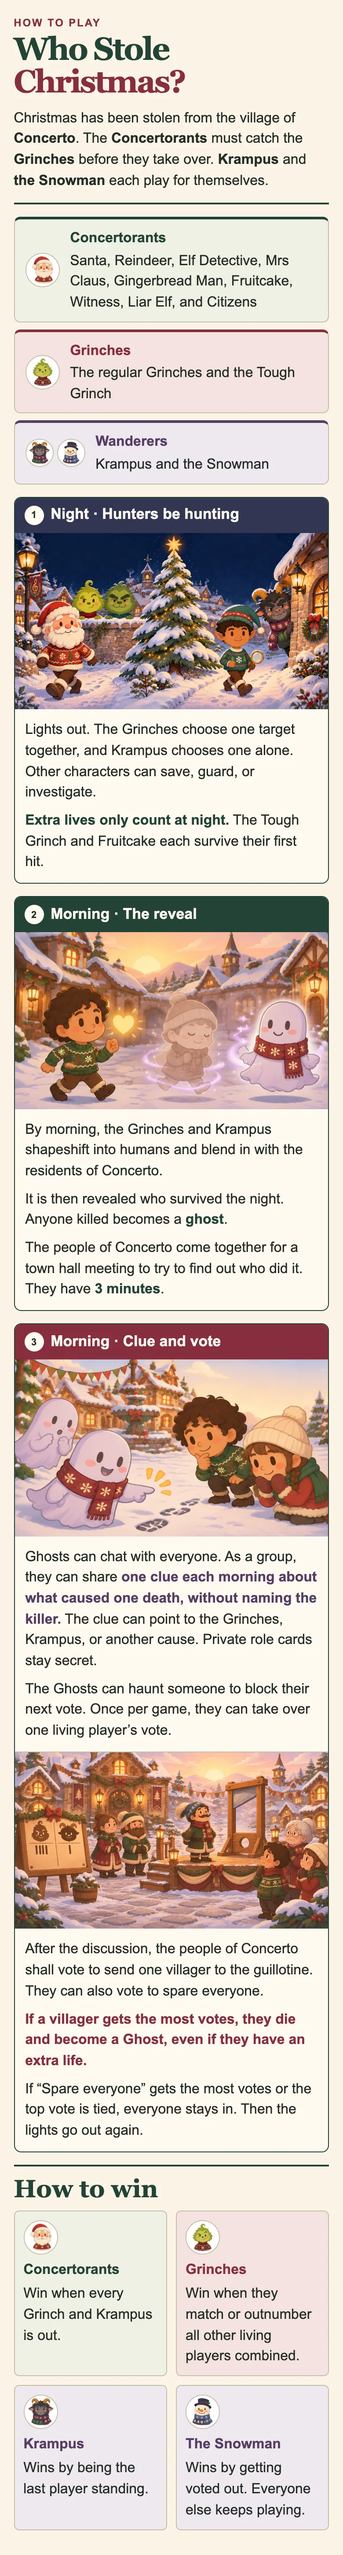
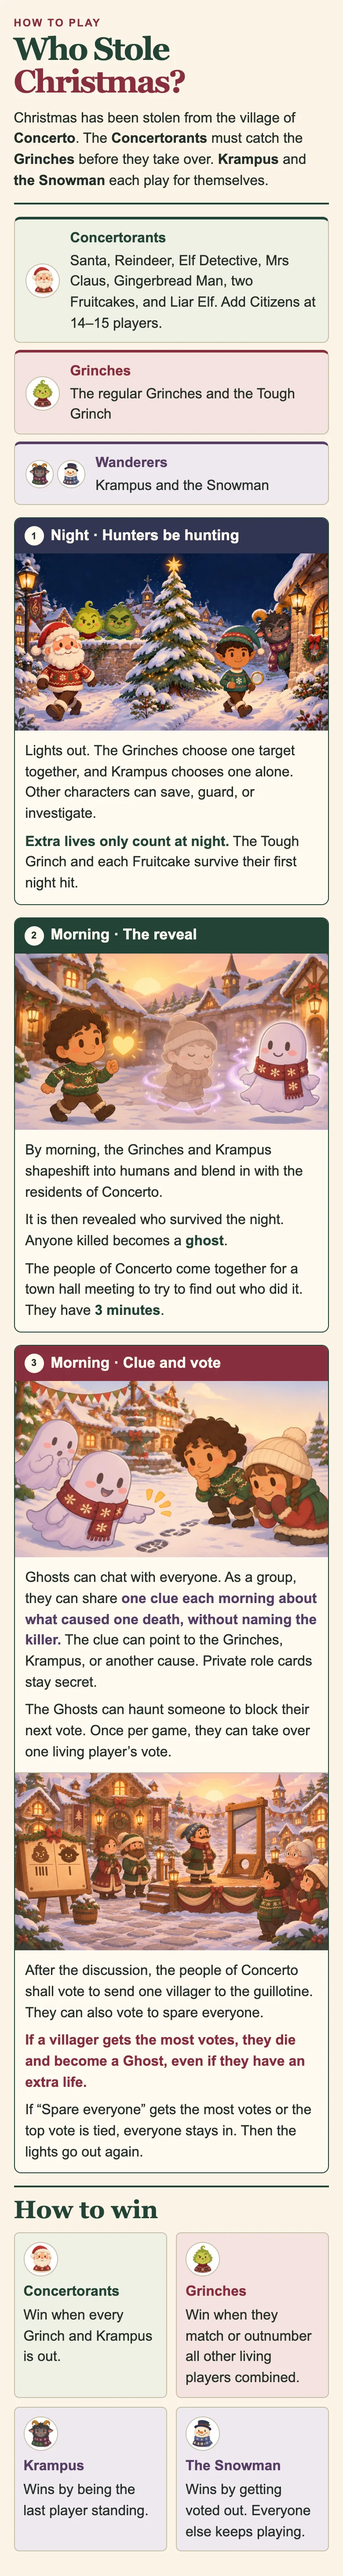
Deal two Fruitcakes and keep extra lives night-only

diff --git a/assets/js/game.js b/assets/js/game.js
@@ -109,7 +109,7 @@
   }
 
   const GUIDE_GROUPS = [
-    ["Concertorants", "town", ["santa", "reindeer", "detective", "mrs_claus", "gingerbread", "fruitcake", "witness", "liar_elf", "citizen"]],
+    ["Concertorants", "town", ["santa", "reindeer", "detective", "mrs_claus", "gingerbread", "fruitcake", "liar_elf", "citizen"]],
     ["Grinches", "grinches", ["grinch", "tough_grinch"]],
     ["Wanderers", "wanderers", ["krampus", "snowman"]],
     ["Ghosts", "ghosts", ["ghost"]]
@@ -127,7 +127,7 @@
       "description": "The Tough Grinch helped carry the stolen presents out of Concerto in a single sack. When the sack split halfway up the hill, they carried the presents the rest of the way anyway.",
       "abilities": [
         "Choose one target together with the other Grinches each night.",
-        "Your extra life lets you survive your first night hit. The village is kept in the dark about how you survived."
+        "Your extra life protects you from one night hit. How you survived stays secret. If the village votes you out, you become a ghost immediately."
       ],
       "winCondition": "The Grinches win when they match or outnumber all other living players combined."
     },
@@ -174,14 +174,7 @@
       "description": "This Fruitcake has survived three Christmas markets, a week on the post office shelf, and a family that keeps wrapping it up again. A little trouble in Concerto hardly seems worth mentioning.",
       "abilities": [
         "You have no special night action.",
-        "Your extra life lets you survive your first night hit. The village is kept in the dark about how you survived."
-      ],
-      "winCondition": "The Concertorants win when every Grinch and Krampus is out."
-    },
-    "witness": {
-      "description": "Someone was still awake when a figure slipped out of the square with a sack. The Witness got a good look and spent the rest of the night deciding how much to say.",
-      "abilities": [
-        "On the first night, you learn the name of one Grinch. You may drop hints, but you must keep their name to yourself."
+        "Your extra life protects you from one night hit. How you survived stays secret. If the village votes you out, you become a ghost immediately."
       ],
       "winCondition": "The Concertorants win when every Grinch and Krampus is out."
     },
@@ -312,15 +305,15 @@
         <p class="lede">A comedic Christmas murder mystery at Brenda and Jack’s. Someone stole Christmas. You have ugly tees, snacks, and one job: figure it out — or get away with it.</p>
       </header>
       <ol class="howto-steps">
-        <li><h3>Setup</h3><p>Open the <a href="game.html">Game tab</a>, sign in, and tap <strong>Join lobby</strong>. Jack hosts. The lobby takes 5 to 15 players and closes when Jack shuffles. With 14 players, the game adds one Citizen. With 15 players, it adds two. You see your own card after the shuffle.</p></li>
+        <li><h3>Setup</h3><p>Open the <a href="game.html">Game tab</a>, sign in, and tap <strong>Join lobby</strong>. Jack hosts. The lobby takes 5 to 15 players and closes when Jack shuffles. The 13-player deck includes two Fruitcakes. The game adds one Citizen at 14 players and two at 15. You see your own card after the shuffle.</p></li>
         <li><h3>Night</h3><p>Everyone still in the game locks in something on their phone — even if your role has no power — so nobody can tell who is acting. Submissions are locked. The Grinches steal together; Krampus steals alone; Santa, the Reindeer, the Detective and Mrs Claus do their quiet festive work.</p></li>
-        <li><h3>Morning reveal</h3><p>The TV tells it like a cliffhanger: someone is on the brink… then BAM, they’re out, or a mysterious rescue saves them. The host advances the story beat by beat. If someone lives, nobody is told why (a save, or a second life — same vibe, no credits).</p></li>
-        <li><h3>Day vote</h3><p>Talk, accuse, then vote. A tie means nobody is out. There is a near-miss pause before the result. If the Snowman is voted out, they wanted this, they win, and the game continues. Anyone who is out takes a shot or a gachapon capsule.</p></li>
+        <li><h3>Morning reveal</h3><p>The TV tells it like a cliffhanger: someone is on the brink… then BAM, they’re out, or a mysterious rescue saves them. The host advances the story beat by beat. If someone survives a night hit, the reason stays secret. The Tough Grinch and both Fruitcakes can each survive one night hit.</p></li>
+        <li><h3>Day vote</h3><p>Talk, accuse, then vote. The player who gets the most votes becomes a ghost immediately, even with an extra life. Everyone stays in on a tie. If the Snowman is voted out, they wanted this, they win, and the game continues. Anyone who is out takes a shot or a gachapon capsule.</p></li>
         <li><h3>Ghosts</h3><p>Out players haunt, request a killer clue, may possess one vote once a game, and can predict the winning side.</p></li>
         <li><h3>Twists</h3><p>Once a day the host may play one optional Twist card (or skip): Blizzard, Naughty List Leak, Secret Recount, Gift Swap, Egg-nog Hangover, or Ugly Tee Audit. The TV gets a dramatic reveal. The host can always skip.</p></li>
         <li><h3>How to win</h3><p><strong>Nice</strong> win when every Grinch and Krampus is out. <strong>Grinches</strong> win when living Grinches are at least as many as everyone else still alive (Krampus counts as not a Grinch). <strong>Krampus</strong> wins only if last standing. The Snowman’s win does not end the game.</p></li>
       </ol>
-      <p class="howto-foot">Fewer than 13 players? Nice roles drop in this order: Liar Elf, Witness, Reindeer, Fruitcake, Gingerbread Man, Mrs Claus, then Snowman, then one regular Grinch. The host needs at least 5 players.</p>
+      <p class="howto-foot">The game uses a smaller deck for groups of 5 to 12 players.</p>
       ${docsHtml({ backGame: true })}
     `;
   }
@@ -714,7 +707,7 @@
         return `<div class="card game-action"><h3>You cannot vote today</h3><p>${why} has you sitting this one out. Enjoy the show. Or don’t.</p></div>`;
       }
       return `<div class="card game-action"><h3>Day vote</h3>
-        <p>Pick someone still in the game.</p>
+        <p>Pick someone still in the game. The player with the most votes becomes a ghost, even with an extra life. A tie keeps everyone in.</p>
         ${d.locked ? "<p>Locked in. Wait for the host.</p>" : pickGrid(living, pickId, you.id) + '<button class="btn btn-gold" type="button" id="game-lock">Lock in your vote</button>'}
         <p class="form-status" id="game-status" hidden></p></div>`;
     }

diff --git a/how-to-play.html b/how-to-play.html
@@ -56,8 +56,8 @@
         <a href="game.html">← Back to Game</a> · <a href="guide.html">Character Guide</a>
       </nav>
       <picture class="howto-comic" style="display: block">
-        <source media="(max-width: 699px)" srcset="assets/images/how-to-play/concerto-comic-mobile.webp" width="780" height="5800">
-        <img src="assets/images/how-to-play/concerto-comic-print.webp" width="1529" height="2164"
+        <source media="(max-width: 699px)" srcset="assets/images/how-to-play/concerto-comic-mobile.webp?v=20261121-deck-balance" width="780" height="5846">
+        <img src="assets/images/how-to-play/concerto-comic-print.webp?v=20261121-deck-balance" width="1529" height="2164"
           alt="Illustrated rules for Who Stole Christmas? The complete text follows."
           style="display: block; width: 100%; height: auto; border-radius: var(--radius)"
           fetchpriority="high">
@@ -65,14 +65,14 @@
       <section class="visually-hidden" aria-label="Comic transcript">
         <p>Christmas has been stolen from the village of Concerto. The Concertorants must catch the Grinches before they take over. Krampus and the Snowman each play for themselves.</p>
         <h2>Concertorants</h2>
-        <p>Santa, Reindeer, Elf Detective, Mrs Claus, Gingerbread Man, Fruitcake, Witness, Liar Elf, and Citizens</p>
+        <p>Santa, Reindeer, Elf Detective, Mrs Claus, Gingerbread Man, two Fruitcakes, and Liar Elf. Add Citizens at 14–15 players.</p>
         <h2>Grinches</h2>
         <p>The regular Grinches and the Tough Grinch</p>
         <h2>Wanderers</h2>
         <p>Krampus and the Snowman</p>
         <h2>Night · Hunters be hunting</h2>
         <p>Lights out. The Grinches choose one target together, and Krampus chooses one alone. Other characters can save, guard, or investigate.</p>
-        <p>Extra lives only count at night. The Tough Grinch and Fruitcake each survive their first hit.</p>
+        <p>Extra lives only count at night. The Tough Grinch and each Fruitcake survive their first night hit.</p>
         <h2>Morning · The reveal</h2>
         <p>By morning, the Grinches and Krampus shapeshift into humans and blend in with the residents of Concerto.</p>
         <p>It is then revealed who survived the night. Anyone killed becomes a ghost.</p>
@@ -109,7 +109,7 @@
   <script src="assets/js/data.js?v=20261121-character-cards" defer></script>
   <script src="assets/js/adapters/mock.js?v=20261121-character-cards" defer></script>
   <script src="assets/js/adapters/supabase.js?v=20261121-character-cards" defer></script>
-  <script src="assets/js/game.js?v=20261121-grinch-story" defer></script>
+  <script src="assets/js/game.js?v=20261121-deck-balance" defer></script>
   <script src="assets/js/main.js?v=20261121-tv-slideshow" defer></script>
 </body>
 </html>

diff --git a/tv.html b/tv.html
@@ -70,7 +70,7 @@
   <script src="assets/js/adapters/mock.js?v=20261121-character-cards" defer></script>
   <script src="assets/js/adapters/supabase.js?v=20261121-character-cards" defer></script>
   <script src="assets/js/tv-slideshow.js?v=20261121-tv-slideshow" defer></script>
-  <script src="assets/js/game.js?v=20261121-grinch-story" defer></script>
+  <script src="assets/js/game.js?v=20261121-deck-balance" defer></script>
   <script src="assets/js/main.js?v=20261121-tv-slideshow" defer></script>
 </body>
 </html>

diff --git a/index.html b/index.html
@@ -213,7 +213,7 @@
   <script src="assets/js/data.js?v=20261121-character-cards" defer></script>
   <script src="assets/js/adapters/mock.js?v=20261121-character-cards" defer></script>
   <script src="assets/js/adapters/supabase.js?v=20261121-character-cards" defer></script>
-  <script src="assets/js/game.js?v=20261121-grinch-story" defer></script>
+  <script src="assets/js/game.js?v=20261121-deck-balance" defer></script>
   <script src="assets/js/main.js?v=20261121-tv-slideshow" defer></script>
 </body>
 </html>

diff --git a/game.html b/game.html
@@ -68,7 +68,7 @@
   <script src="assets/js/data.js?v=20261121-character-cards" defer></script>
   <script src="assets/js/adapters/mock.js?v=20261121-character-cards" defer></script>
   <script src="assets/js/adapters/supabase.js?v=20261121-character-cards" defer></script>
-  <script src="assets/js/game.js?v=20261121-grinch-story" defer></script>
+  <script src="assets/js/game.js?v=20261121-deck-balance" defer></script>
   <script src="assets/js/main.js?v=20261121-tv-slideshow" defer></script>
 </body>
 </html>

diff --git a/guide.html b/guide.html
@@ -68,7 +68,7 @@
   <script src="assets/js/data.js?v=20261121-character-cards" defer></script>
   <script src="assets/js/adapters/mock.js?v=20261121-character-cards" defer></script>
   <script src="assets/js/adapters/supabase.js?v=20261121-character-cards" defer></script>
-  <script src="assets/js/game.js?v=20261121-grinch-story" defer></script>
+  <script src="assets/js/game.js?v=20261121-deck-balance" defer></script>
   <script src="assets/js/main.js?v=20261121-tv-slideshow" defer></script>
 </body>
 </html>

diff --git a/host.html b/host.html
@@ -68,7 +68,7 @@
   <script src="assets/js/data.js?v=20261121-character-cards" defer></script>
   <script src="assets/js/adapters/mock.js?v=20261121-character-cards" defer></script>
   <script src="assets/js/adapters/supabase.js?v=20261121-character-cards" defer></script>
-  <script src="assets/js/game.js?v=20261121-grinch-story" defer></script>
+  <script src="assets/js/game.js?v=20261121-deck-balance" defer></script>
   <script src="assets/js/main.js?v=20261121-tv-slideshow" defer></script>
 </body>
 </html>

diff --git a/itinerary.html b/itinerary.html
@@ -96,7 +96,7 @@
   <script src="assets/js/data.js?v=20261121-character-cards" defer></script>
   <script src="assets/js/adapters/mock.js?v=20261121-character-cards" defer></script>
   <script src="assets/js/adapters/supabase.js?v=20261121-character-cards" defer></script>
-  <script src="assets/js/game.js?v=20261121-grinch-story" defer></script>
+  <script src="assets/js/game.js?v=20261121-deck-balance" defer></script>
   <script src="assets/js/main.js?v=20261121-tv-slideshow" defer></script>
 </body>
 </html>

diff --git a/me.html b/me.html
@@ -68,7 +68,7 @@
   <script src="assets/js/data.js?v=20261121-character-cards" defer></script>
   <script src="assets/js/adapters/mock.js?v=20261121-character-cards" defer></script>
   <script src="assets/js/adapters/supabase.js?v=20261121-character-cards" defer></script>
-  <script src="assets/js/game.js?v=20261121-grinch-story" defer></script>
+  <script src="assets/js/game.js?v=20261121-deck-balance" defer></script>
   <script src="assets/js/main.js?v=20261121-tv-slideshow" defer></script>
 </body>
 </html>

diff --git a/menu.html b/menu.html
@@ -70,7 +70,7 @@
   <script src="assets/js/data.js?v=20261121-character-cards" defer></script>
   <script src="assets/js/adapters/mock.js?v=20261121-character-cards" defer></script>
   <script src="assets/js/adapters/supabase.js?v=20261121-character-cards" defer></script>
-  <script src="assets/js/game.js?v=20261121-grinch-story" defer></script>
+  <script src="assets/js/game.js?v=20261121-deck-balance" defer></script>
   <script src="assets/js/main.js?v=20261121-tv-slideshow" defer></script>
 </body>
 </html>
